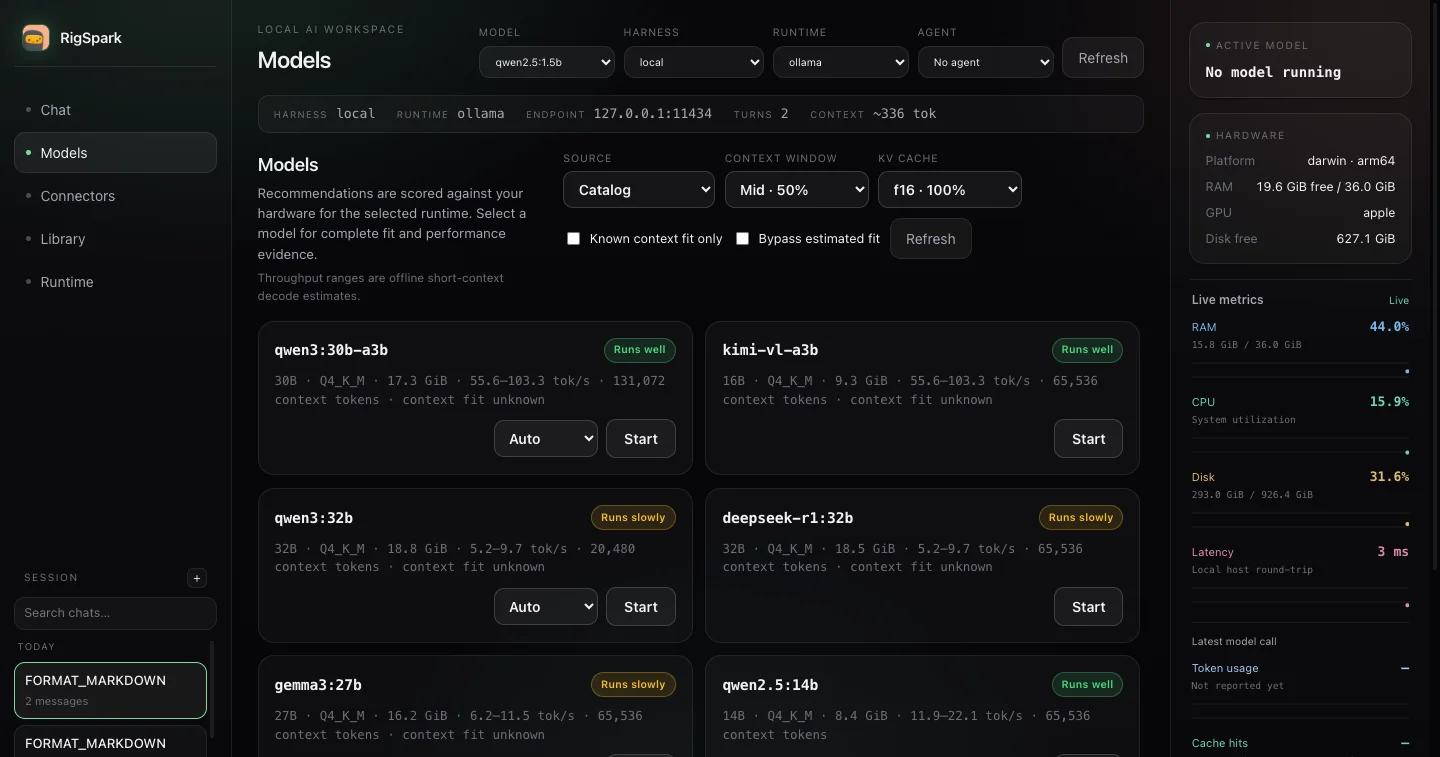
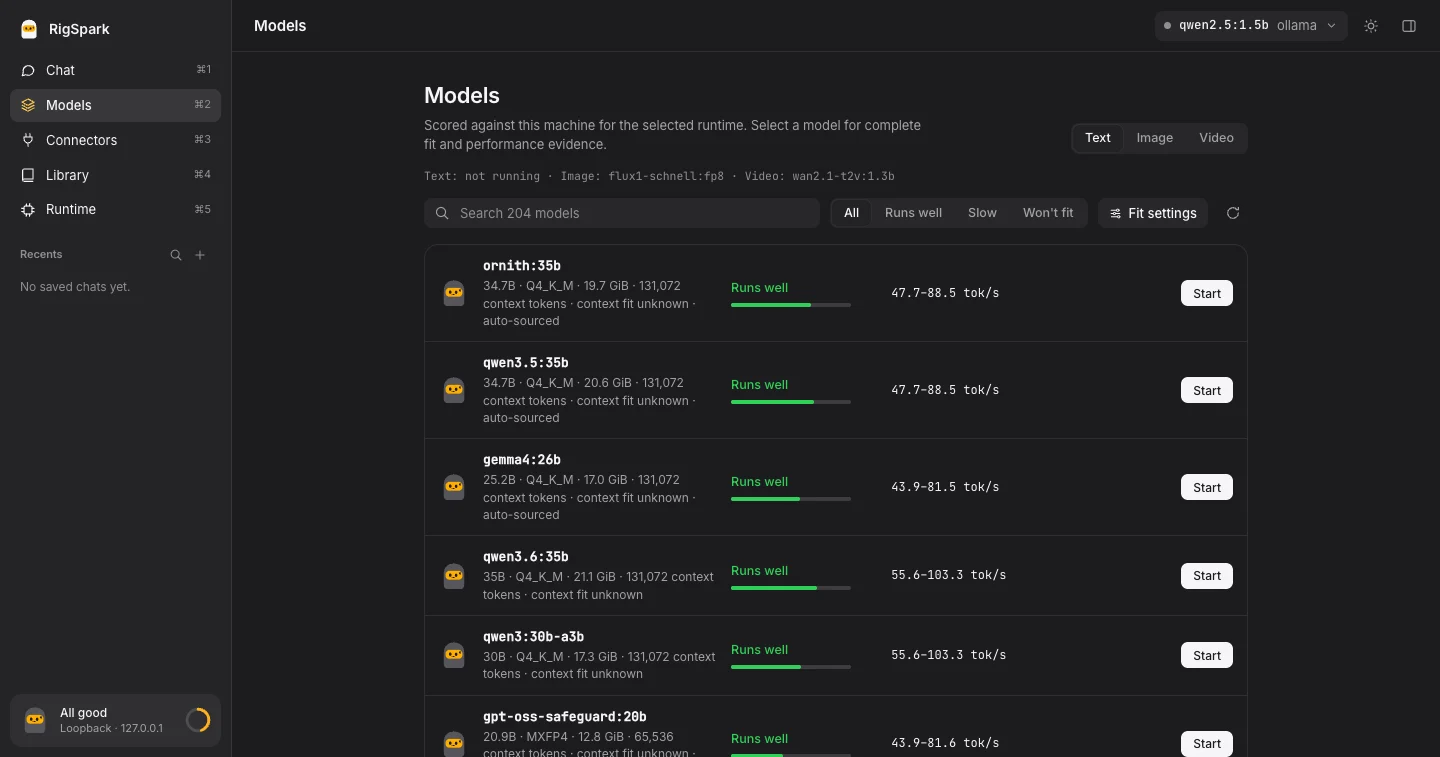
chore(release): prepare 3.0.0
Document the redesigned workspace and desktop app, full-catalog Models,
and the breaking GUI markup/asset changes. Bump workspace, inter-crate
pins, desktop metadata, and site version strings, and refresh the GUI
screenshots in the README, guide, and site from the new interface.

diff --git a/site/index.html b/site/index.html
@@ -37,7 +37,7 @@
         "description": "Hardware-aware CLI, terminal UI and browser workspace that tells you which local LLMs will run on your machine, with yes / slow / no verdicts and estimated tokens per second, then verifies, serves and chats with them. It also generates images and short videos locally through your own ComfyUI.",
         "applicationCategory": "DeveloperApplication",
         "operatingSystem": "macOS, Linux, Windows",
-        "softwareVersion": "2.4.0",
+        "softwareVersion": "3.0.0",
         "license": "https://opensource.org/licenses/MIT",
         "url": "https://www.rigspark.si/",
         "downloadUrl": "https://github.com/shashankswe2020-ux/rigspark/releases/latest",
@@ -90,9 +90,9 @@
     </script>
     <link rel="stylesheet" href="brand/fonts/fonts.css" />
     <link rel="stylesheet" href="brand/tokens/tokens.css" />
-    <link rel="stylesheet" href="styles.css?v=2.4.0" />
-    <script src="data/latest.js?v=2.4.0" defer></script>
-    <script src="main.js?v=2.4.0" defer></script>
+    <link rel="stylesheet" href="styles.css?v=3.0.0" />
+    <script src="data/latest.js?v=3.0.0" defer></script>
+    <script src="main.js?v=3.0.0" defer></script>
   </head>
   <body>
     <a class="skip" href="#main">Skip to content</a>
@@ -465,7 +465,7 @@ Run the top pick:  <span class="t-acc">rigspark up qwen3:30b-a3b</span>
           <div><b>Compare</b><a href="#compare">RigSpark vs a runtime alone</a></div>
           <div><b>Community</b><a href="https://github.com/shashankswe2020-ux/rigspark">GitHub</a><a href="https://github.com/shashankswe2020-ux/rigspark/issues">Issues</a><a href="https://github.com/shashankswe2020-ux/rigspark/blob/main/LICENSE">MIT License</a></div>
         </nav>
-        <div class="legal"><span>RigSpark v2.4.0 &middot; MIT &middot; Native Rust</span><span>Made for machines you already own.</span></div>
+        <div class="legal"><span>RigSpark v3.0.0 &middot; MIT &middot; Native Rust</span><span>Made for machines you already own.</span></div>
       </div>
     </footer>
   </body>

diff --git a/CHANGELOG.md b/CHANGELOG.md
@@ -1,5 +1,57 @@
 # Changelog
 
+## 3.0.0 - 2026-10-08
+
+### A redesigned workspace
+
+`rigspark gui` and the desktop app have a new, minimal interface. Every feature
+is still there, but each control now appears where and when you need it.
+
+- **Model chip.** One chip in the top bar holds the model, runtime, harness, and
+  agent pickers, the endpoint/turns/context status, and Refresh.
+- **Inspector.** Live RAM/CPU/disk/latency, the latest call's token usage, and
+  hardware move into a panel you open from the top bar, with ⌘I, or by clicking
+  Sparky.
+- **Sparky status companion.** The sidebar's Sparky and memory ring follow real
+  RAM pressure (*All good*, *Getting busy*, *Memory is tight*). When telemetry
+  is unavailable it says *Metrics offline* instead of guessing.
+- **Chat.** A 3D Sparky welcome with suggestion pills; a composer **+** menu for
+  context, skills, and the system prompt; a Text/Image/Video switch; an agent
+  chip; and a round Send button. Sparky is the assistant's avatar.
+- **Models.** A ranked list with a Sparky face per verdict, search, and
+  *All / Runs well / Slow / Won't fit* filters. A memory bar appears only when
+  both required and usable memory are known. Context window, KV cache, and fit
+  toggles move into a **Fit settings** popover, and the per-model runtime
+  picker appears on hover.
+- **Full catalog.** Models now loads the whole ranked catalog (up to 1,000
+  entries; 253 today) instead of the top 100, so search and filters reach every
+  model. The top results are unchanged.
+- **Connectors.** An empty state with Filesystem, Git, and Custom templates that
+  open a pre-filled *Add connector* sheet. The JSON editor is a collapsible
+  section.
+- **Library.** Agents and Skills are tabs, with starter templates that pre-fill
+  the form.
+- **Runtime.** System Settings-style grouped lists for this machine and the
+  inference runtimes. No hardware score is shown, because none is sourced.
+- **Light and dark themes**, remembered across launches; ⌘1–⌘5 switch views and
+  Esc closes popovers and sheets.
+- Refreshing an empty chat keeps the welcome instead of a blank pane.
+
+### Desktop app
+
+- New app icon from the Sparky brand kit, with transparent corners.
+- The window opens on the dark workspace colour instead of flashing white.
+
+### Breaking changes
+
+- The GUI layout and markup changed. Element IDs used by the app's own scripts
+  are kept, but anything that automates the old layout (for example, expecting
+  the model pickers, fit controls, or metrics to be visible without opening
+  their popover or panel) needs updating.
+- `/static/mascot-avatar.jpg` and `/static/mascot-welcome.jpg` are removed.
+  Brand assets are now served from `/static/brand/` and fonts from
+  `/static/fonts/`. SVGs are served with a sandboxed Content-Security-Policy.
+
 ## 2.4.0 - 2026-10-08
 
 ### Image and video models
